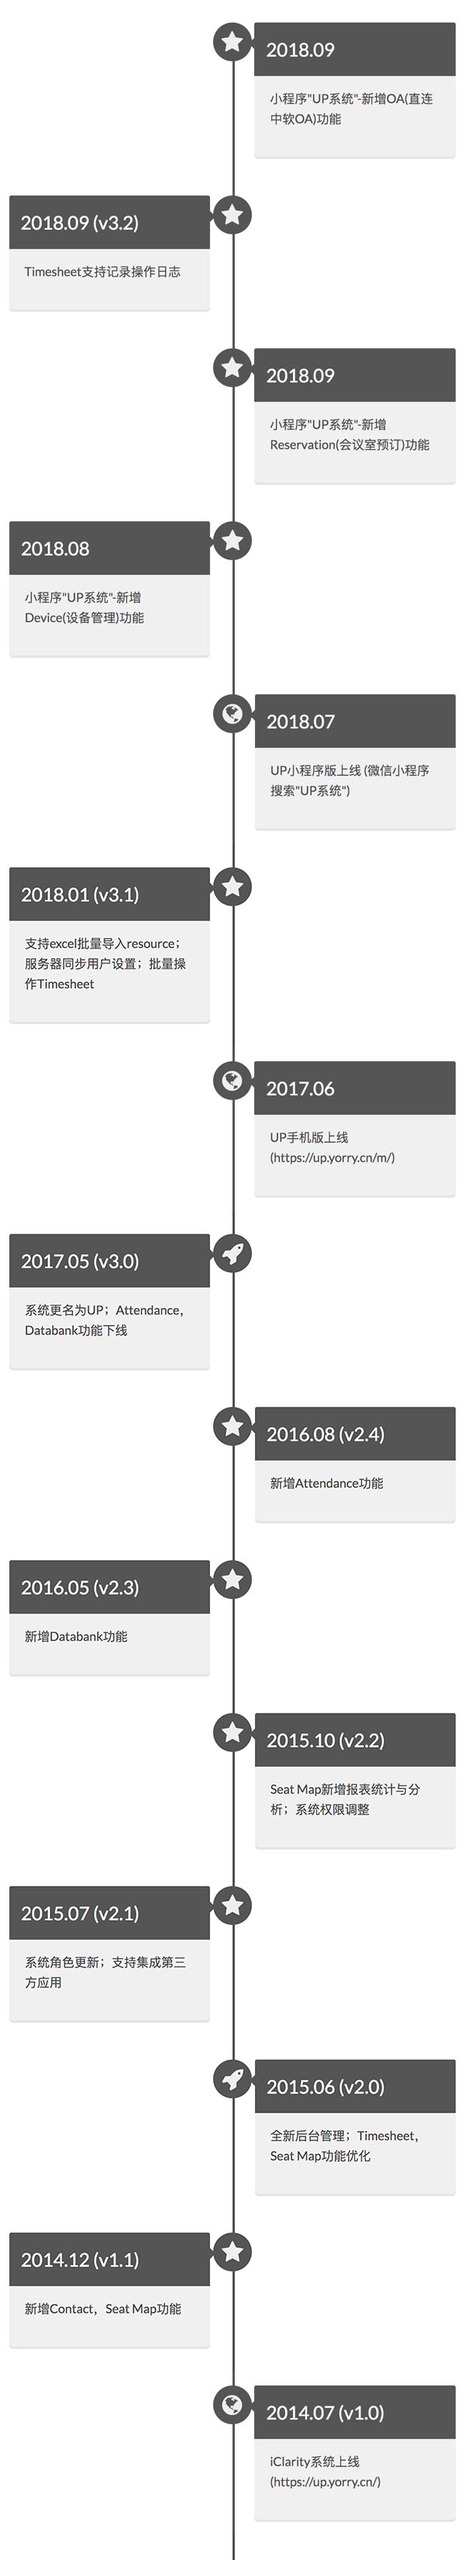
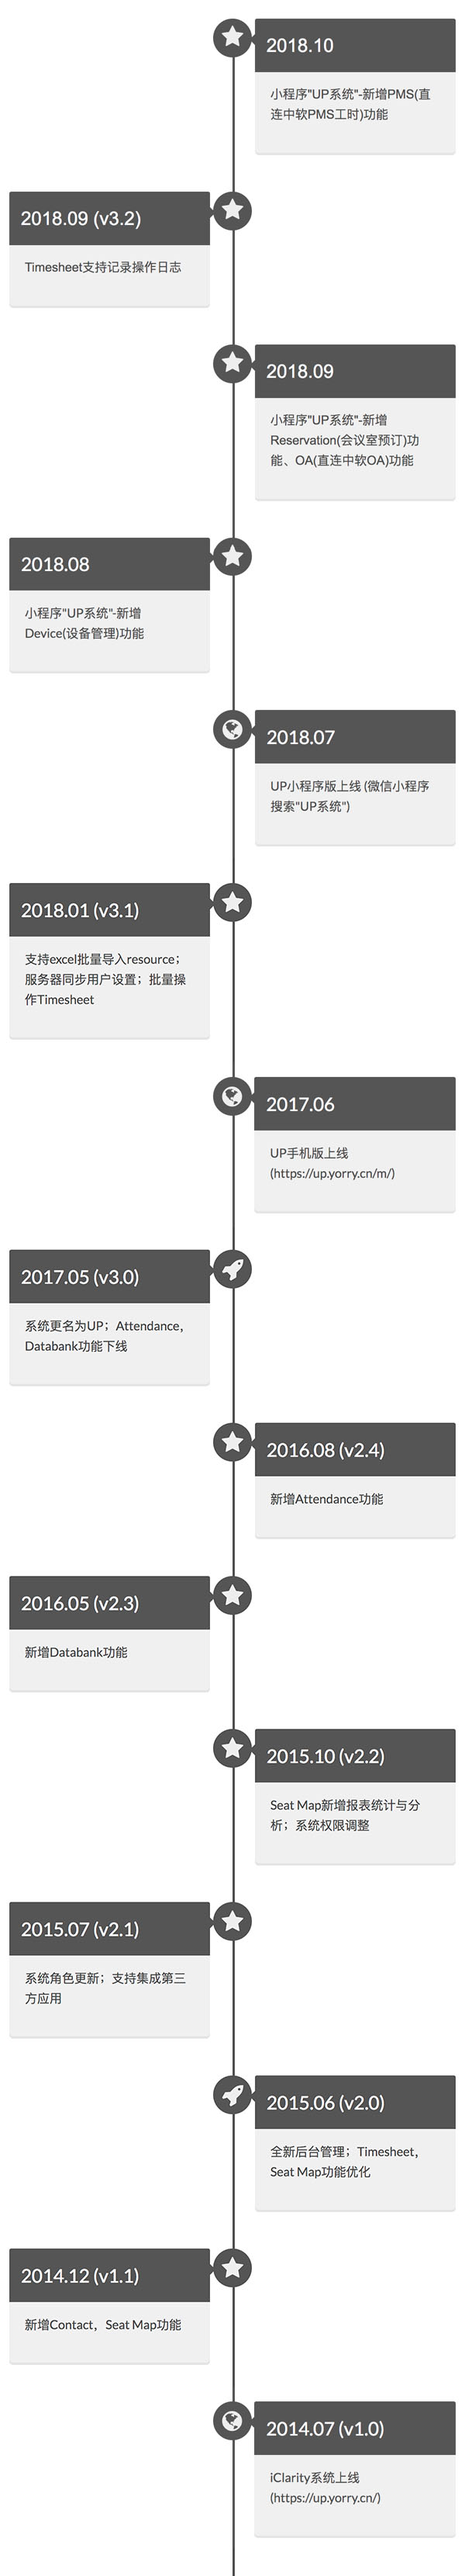
Update post up

diff --git a/_posts/2014-7-1-up.md b/_posts/2014-7-1-up.md
@@ -2,7 +2,7 @@
 layout: post
 title: UP系统 (原iClarity系统)
 description: "UP系统 (原iClarity系统) 电脑版 https://up.yorry.cn 手机版 https://up.yorry.cn/m/ 版本历史"
-modified: 2018-09-27
+modified: 2018-10-08
 tags: [作品]
 categories: [Prod]
 sid: upsystem
@@ -42,8 +42,8 @@ sid: upsystem
             <i class="fa fa-star"></i>
         </div>
         <div class="timeline-content right">
-            <h2>2018.09</h2>
-            <p>小程序"UP系统"-新增OA(直连中软OA)功能</p>
+            <h2>2018.10</h2>
+            <p>小程序"UP系统"-新增PMS(直连中软PMS工时)功能</p>
         </div>
     </div>
     <div class="timeline-item">
@@ -61,7 +61,7 @@ sid: upsystem
         </div>
         <div class="timeline-content right">
             <h2>2018.09</h2>
-            <p>小程序"UP系统"-新增Reservation(会议室预订)功能</p>
+            <p>小程序"UP系统"-新增Reservation(会议室预订)功能、OA(直连中软OA)功能</p>
         </div>
     </div>
     <div class="timeline-item">
